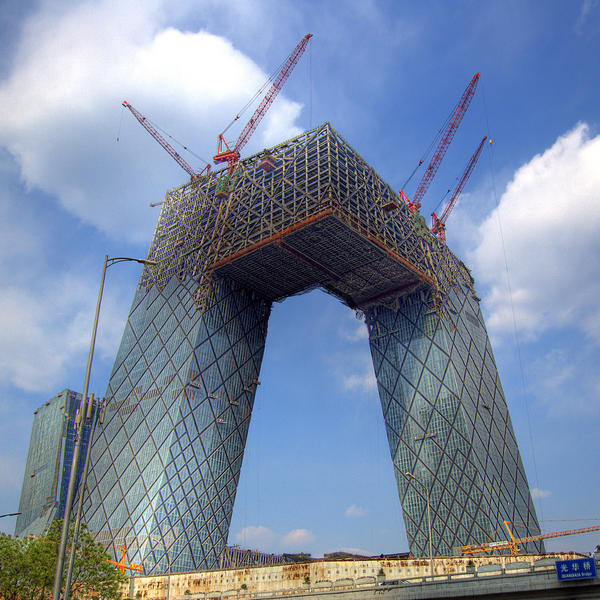
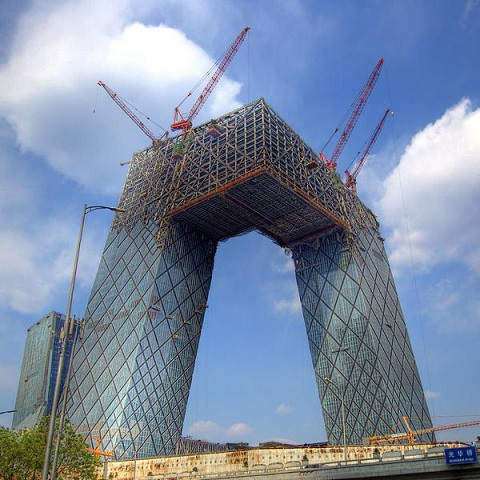
fixed index.html, optimized images

diff --git a/index.html b/index.html
@@ -133,15 +133,15 @@
 
   		<div class="row-fluid pitch">
         <div class="span5 offset1 video">
-          <img class="img-polaroid" src="park.jpg">
+          <img class="img-polaroid" alt="Amusement park" src="park.jpg">
         </div>
 
         <!-- Actions div to contain statistics, order and share buttons. -->
         <div class="span5 actions">
-
+          <div class="row-fluid">
           <!-- Statistics -->
           <div class="span8 offset2">
-            <div class="statistics">
+            <div class="row-fluid statistics">
               <div class="span4">
                 <div class="linediv-l">
                   <h3>1000</h3> <p>backers</p>
@@ -159,24 +159,28 @@
               </div>
             </div>
           </div>
-
+          </div>
           <!-- Thermometer -->
+          <div class="row-fluid">
           <div class="span10 offset1">
             <div class="thermometer progress active">
               <div class="bar bar-success" style="width: 60%"></div>
               <div class="bar bar-warning" style="width: 40%"></div>
             </div>
           </div>
-
+          </div>
           <!-- Preorder -->
+          <div class="row-fluid">
           <div class="span6 offset3 order">
             <button class="btn btn-success btn-large">Preorder</button>
           </div>
-
+          </div>
           <!-- Social -->
+          <div class="row-fluid">
           <div class="span8 offset2 social">
             <button class="btn btn-twitter"><i class="icon-twitter"></i> | Twitter</button>
             <button class="btn btn-facebook"><i class="icon-facebook"></i> | Facebook</button>
+          </div>
           </div>
         </div>
       </div>
@@ -184,7 +188,7 @@
       <!-- Marketing copy -->
       <div class="row-fluid section1">
         <div class="span5 offset1 asset">
-          <img class="img-polaroid" src="cranes-300.jpg">
+          <img class="img-polaroid" alt="Cranes" src="cranes.jpg">
         </div>
         <div class="span5 copy">
           <p>
@@ -206,7 +210,7 @@
           </p>
         </div>
         <div class="span5 asset">
-          <img class="img-polaroid" src="phone.jpg">
+          <img class="img-polaroid" alt="Phone" src="phone.jpg">
         </div>
       </div>
 
